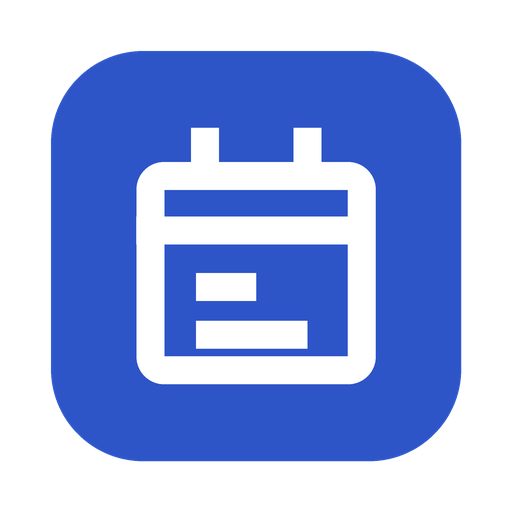
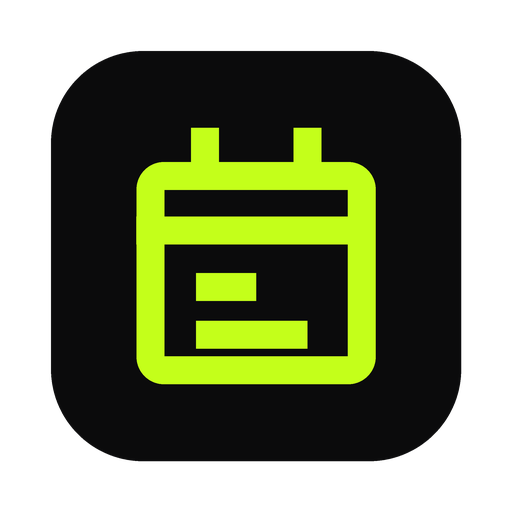
New black/gray/lime/white palette; fix date and time box spacing
Claude-Session: https://claude.ai/code/session_01LgPTUtS1EswVMbNt5PFPbf

diff --git a/index.html b/index.html
@@ -4,7 +4,7 @@
 <meta charset="utf-8">
 <meta name="viewport" content="width=device-width,initial-scale=1,viewport-fit=cover">
 <meta name="description" content="Build weekly shift schedules that follow your store's rules.">
-<meta name="theme-color" content="#2d55c8">
+<meta name="theme-color" content="#0b0b0c">
 <meta name="apple-mobile-web-app-capable" content="yes">
 <meta name="mobile-web-app-capable" content="yes">
 <meta name="apple-mobile-web-app-title" content="Shift Planner">
@@ -28,38 +28,38 @@ img{max-width:100%}
 <style>
 /* Layout: one sticky header with week controls and tabs; a scrollable week grid as the main object; plain cards below for tallies and rules. */
 :root{
-  --bg:#f3f5f8; --surface:#ffffff; --surface-2:#eef1f6; --ink:#18202e; --muted:#5b6475; --line:#d9dee7;
-  --accent:#2d55c8; --accent-ink:#ffffff; --accent-soft:#e3e9fa;
+  --bg:#f4f4f2; --surface:#ffffff; --surface-2:#ececea; --ink:#0d0d0e; --muted:#5c5e61; --line:#d9d9d5;
+  --accent:#b8f000; --accent-ink:#0d0d0e; --accent-soft:#eefbc8; --accent-text:#3d6a00;
   --open-bg:#fff0d1; --open-fg:#7a4f00;
-  --close-bg:#e2e3fa; --close-fg:#35349a;
-  --mid-bg:#d6f1ec; --mid-fg:#0c6456;
-  --pto-bg:#fbe1e5; --pto-fg:#962036;
-  --off-fg:#8a93a3;
-  --bad:#b42318; --bad-soft:#fde8e6; --warn:#995200; --warn-soft:#fff1dc; --good:#1d7447; --good-soft:#e1f4e9;
+  --close-bg:#e4e4f4; --close-fg:#3a3a8c;
+  --mid-bg:#d9f0ea; --mid-fg:#0c6050;
+  --pto-bg:#fbe2e5; --pto-fg:#962036;
+  --off-fg:#8b8d90;
+  --bad:#b42318; --bad-soft:#fde8e6; --warn:#995200; --warn-soft:#fff1dc; --good:#2f6b00; --good-soft:#eefbc8;
   --font-body:"IBM Plex Sans",system-ui,-apple-system,"Segoe UI",Roboto,sans-serif;
   --font-mono:"IBM Plex Mono",ui-monospace,SFMono-Regular,Menlo,Consolas,monospace;
   --r:10px;
 }
 @media (prefers-color-scheme: dark){:root:not([data-theme="light"]){
-  --bg:#11151d; --surface:#1a202b; --surface-2:#232a37; --ink:#e7ebf2; --muted:#9aa3b4; --line:#2f3746;
-  --accent:#7b9cf5; --accent-ink:#0f1626; --accent-soft:#25304a;
-  --open-bg:#3a2d10; --open-fg:#ffd27a;
-  --close-bg:#262650; --close-fg:#b9b8ff;
-  --mid-bg:#113a34; --mid-fg:#7fe0cf;
-  --pto-bg:#44202a; --pto-fg:#ffaebd;
-  --off-fg:#6c7586;
-  --bad:#ff8a7e; --bad-soft:#3d1f1d; --warn:#ffbe6b; --warn-soft:#3a2a12; --good:#7fd9a6; --good-soft:#163323;
+  --bg:#0b0b0c; --surface:#161618; --surface-2:#232326; --ink:#f4f4f2; --muted:#a3a3a7; --line:#2f2f33;
+  --accent:#c4ff1a; --accent-ink:#0b0b0c; --accent-soft:#242e0b; --accent-text:#c4ff1a;
+  --open-bg:#382d12; --open-fg:#ffd27a;
+  --close-bg:#27273d; --close-fg:#c3c2ff;
+  --mid-bg:#11332d; --mid-fg:#86e3d1;
+  --pto-bg:#3f1e26; --pto-fg:#ffb0bf;
+  --off-fg:#6e6e73;
+  --bad:#ff8a7e; --bad-soft:#3a1d1b; --warn:#ffbe6b; --warn-soft:#352812; --good:#c4ff1a; --good-soft:#242e0b;
   color-scheme:dark;
 }}
 :root[data-theme="dark"]{
-  --bg:#11151d; --surface:#1a202b; --surface-2:#232a37; --ink:#e7ebf2; --muted:#9aa3b4; --line:#2f3746;
-  --accent:#7b9cf5; --accent-ink:#0f1626; --accent-soft:#25304a;
-  --open-bg:#3a2d10; --open-fg:#ffd27a;
-  --close-bg:#262650; --close-fg:#b9b8ff;
-  --mid-bg:#113a34; --mid-fg:#7fe0cf;
-  --pto-bg:#44202a; --pto-fg:#ffaebd;
-  --off-fg:#6c7586;
-  --bad:#ff8a7e; --bad-soft:#3d1f1d; --warn:#ffbe6b; --warn-soft:#3a2a12; --good:#7fd9a6; --good-soft:#163323;
+  --bg:#0b0b0c; --surface:#161618; --surface-2:#232326; --ink:#f4f4f2; --muted:#a3a3a7; --line:#2f2f33;
+  --accent:#c4ff1a; --accent-ink:#0b0b0c; --accent-soft:#242e0b; --accent-text:#c4ff1a;
+  --open-bg:#382d12; --open-fg:#ffd27a;
+  --close-bg:#27273d; --close-fg:#c3c2ff;
+  --mid-bg:#11332d; --mid-fg:#86e3d1;
+  --pto-bg:#3f1e26; --pto-fg:#ffb0bf;
+  --off-fg:#6e6e73;
+  --bad:#ff8a7e; --bad-soft:#3a1d1b; --warn:#ffbe6b; --warn-soft:#352812; --good:#c4ff1a; --good-soft:#242e0b;
   color-scheme:dark;
 }
 *{box-sizing:border-box}
@@ -69,16 +69,17 @@ body{color:var(--ink);font-family:var(--font-body);font-size:15px;line-height:1.
 body::before{content:"";position:fixed;inset:0 0 auto;height:env(safe-area-inset-top,0px);z-index:10;background:var(--surface)}
 button,input,select,textarea{font:inherit;color:inherit}
 button{cursor:pointer}
-:focus-visible{outline:2px solid var(--accent);outline-offset:2px}
+:focus-visible{outline:2px solid var(--accent-text);outline-offset:2px}
+input[type=checkbox]{accent-color:var(--accent-text);width:18px;height:18px}
 .wrap{max-width:1040px;margin:0 auto;padding-left:max(16px,env(safe-area-inset-left,0px));padding-right:max(16px,env(safe-area-inset-right,0px))}
 
 header.top{position:sticky;top:env(safe-area-inset-top,0px);z-index:5;background:var(--surface);border-bottom:1px solid var(--line)}
 .top-row{display:flex;align-items:center;justify-content:space-between;gap:12px;padding-block:10px 6px}
 .brand{font-weight:700;font-size:17px;letter-spacing:-.01em;display:flex;align-items:center;gap:8px}
-.brand svg{color:var(--accent)}
+.brand svg{color:var(--accent-text)}
 .tabs{display:flex;gap:4px;padding-block:4px 8px}
 .tab{flex:1;border:0;background:transparent;padding:8px 10px;border-radius:8px;font-weight:600;color:var(--muted)}
-.tab[aria-selected="true"]{background:var(--accent-soft);color:var(--accent)}
+.tab[aria-selected="true"]{background:var(--accent-soft);color:var(--accent-text)}
 main{padding-block:16px 48px;display:flex;flex-direction:column;gap:16px}
 
 .weekbar{display:flex;align-items:center;gap:8px;flex-wrap:wrap}
@@ -163,7 +164,7 @@ table.tally{width:100%;border-collapse:collapse;font-size:13px}
 
 .people{display:flex;flex-direction:column;gap:8px}
 .person{display:flex;align-items:center;gap:12px;background:var(--surface);border:1px solid var(--line);border-radius:var(--r);padding:12px 14px;text-align:left;width:100%}
-.person:hover{border-color:var(--accent)}
+.person:hover{border-color:var(--accent-text)}
 .person .main{flex:1;min-width:0}
 .person .nm{font-weight:600;display:flex;gap:6px;align-items:center;flex-wrap:wrap}
 .person .ds{font-size:13px;color:var(--muted)}
@@ -174,6 +175,8 @@ table.tally{width:100%;border-collapse:collapse;font-size:13px}
 .row{display:flex;gap:10px;flex-wrap:wrap}
 .row>.field{flex:1;min-width:120px}
 input[type=text],input[type=number],input[type=date],input[type=time],select,textarea{background:var(--surface);border:1px solid var(--line);border-radius:8px;padding:8px 10px;width:100%;min-width:0}
+input[type=date],input[type=time]{-webkit-appearance:none;appearance:none;display:block;min-height:40px;text-align:left}
+input::-webkit-date-and-time-value{text-align:left}
 textarea{font-family:var(--font-mono);font-size:12px;min-height:180px;resize:vertical}
 .seg{display:flex;background:var(--surface-2);border-radius:9px;padding:3px;gap:3px}
 .seg button{flex:1;border:0;background:transparent;padding:7px 8px;border-radius:7px;font-weight:600;font-size:13px;color:var(--muted)}
@@ -194,7 +197,13 @@ textarea{font-family:var(--font-mono);font-size:12px;min-height:180px;resize:ver
 .rot li.now{background:var(--accent-soft);border-color:transparent}
 .rot .n{font-family:var(--font-mono);font-size:12px;color:var(--muted);width:20px}
 .rot .who{flex:1;font-weight:600}
-.rot .now-tag{font-size:11px;font-weight:700;color:var(--accent)}
+.rot .now-tag{font-size:11px;font-weight:700;color:var(--accent-text)}
+.shiftrows{display:flex;flex-direction:column;gap:10px}
+.shiftrow{display:grid;grid-template-columns:minmax(0,1fr) minmax(0,1fr) auto;gap:6px 8px;align-items:center;padding-bottom:10px;border-bottom:1px solid var(--line)}
+.shiftrow:last-child{border-bottom:0;padding-bottom:0}
+.shiftrow .sr-label{grid-column:1 / -1;font-size:13px;font-weight:600}
+.shiftrow input{font-family:var(--font-mono);font-size:14px;padding:8px}
+.shiftrow .sr-paid{font-family:var(--font-mono);font-size:12px;color:var(--muted);text-align:right;white-space:nowrap}
 .shifttbl{width:100%;border-collapse:collapse;font-size:13px}
 .shifttbl td,.shifttbl th{padding:4px;text-align:left;border-bottom:1px solid var(--line)}
 .shifttbl th{font-weight:600;color:var(--muted);font-size:12px}
@@ -886,12 +895,12 @@ function renderRules() {
   h += `<div class="card"><h2>Shift times</h2><p class="sub">Lunch is subtracted automatically: none under 6 hours, 30 minutes for 6–7 hours, 1 hour over 7.</p><div class="cols">`;
   const ROWS = [['modOpen', 'Opening ' + esc(ANY())], ['open', 'Opening'], ['close', 'Closing'], ['modClose', 'Closing ' + esc(ANY())], ['mid', 'Mid (fills gaps)']];
   for (const [g, gl] of [['weekday', 'Mon–Fri'], ['sat', 'Saturday'], ['sun', 'Sunday']]) {
-    h += `<div><h3>${gl}</h3><table class="shifttbl"><thead><tr><th>Shift</th><th>Start</th><th>End</th><th>Paid</th></tr></thead><tbody>`;
+    h += `<div><h3>${gl}</h3><div class="shiftrows">`;
     for (const [k, kl] of ROWS) {
       const t = S.shifts[g][k];
-      h += `<tr><td>${kl}</td><td><input type="time" id="sh-${g}-${k}-0" value="${t[0]}" data-chg="shift" data-g="${g}" data-k="${k}" data-i="0" aria-label="${gl} ${kl} start"></td><td><input type="time" id="sh-${g}-${k}-1" value="${t[1]}" data-chg="shift" data-g="${g}" data-k="${k}" data-i="1" aria-label="${gl} ${kl} end"></td><td class="small" style="font-family:var(--font-mono)">${fmtH(paidHours(t[0], t[1]))}h</td></tr>`;
+      h += `<div class="shiftrow"><span class="sr-label">${kl}</span><input type="time" id="sh-${g}-${k}-0" value="${t[0]}" data-chg="shift" data-g="${g}" data-k="${k}" data-i="0" aria-label="${gl} ${kl} start"><input type="time" id="sh-${g}-${k}-1" value="${t[1]}" data-chg="shift" data-g="${g}" data-k="${k}" data-i="1" aria-label="${gl} ${kl} end"><span class="sr-paid">${fmtH(paidHours(t[0], t[1]))}h paid</span></div>`;
     }
-    h += `</tbody></table></div>`;
+    h += `</div></div>`;
   }
   h += `</div></div>`;
   h += `<div class="card"><h2>Extra shift times</h2><p class="sub">Add other shift times you use, like an 8a–5p opener or a 2p–10p closer. They show up as choices when you tap a shift. Turn on "Shuffle can use it" to let the shuffle assign it too.</p>`;
